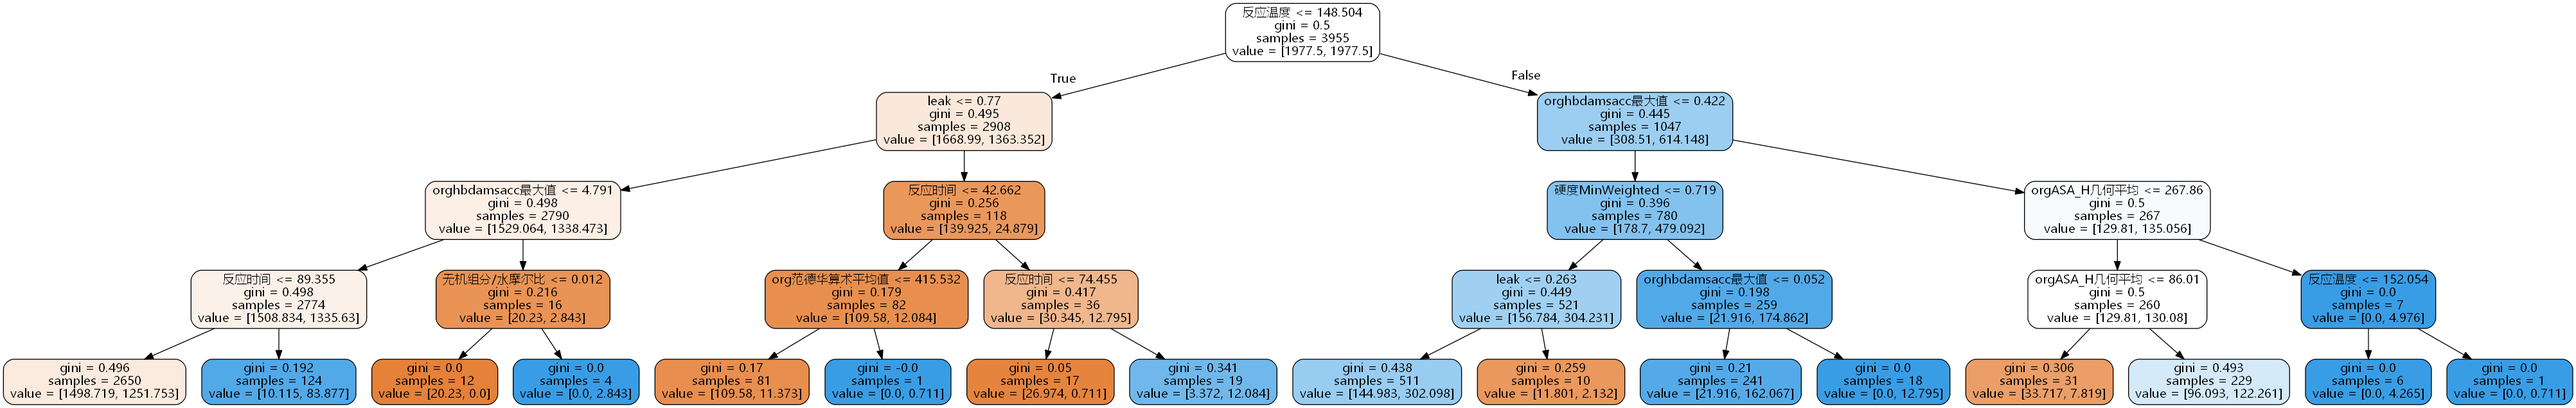
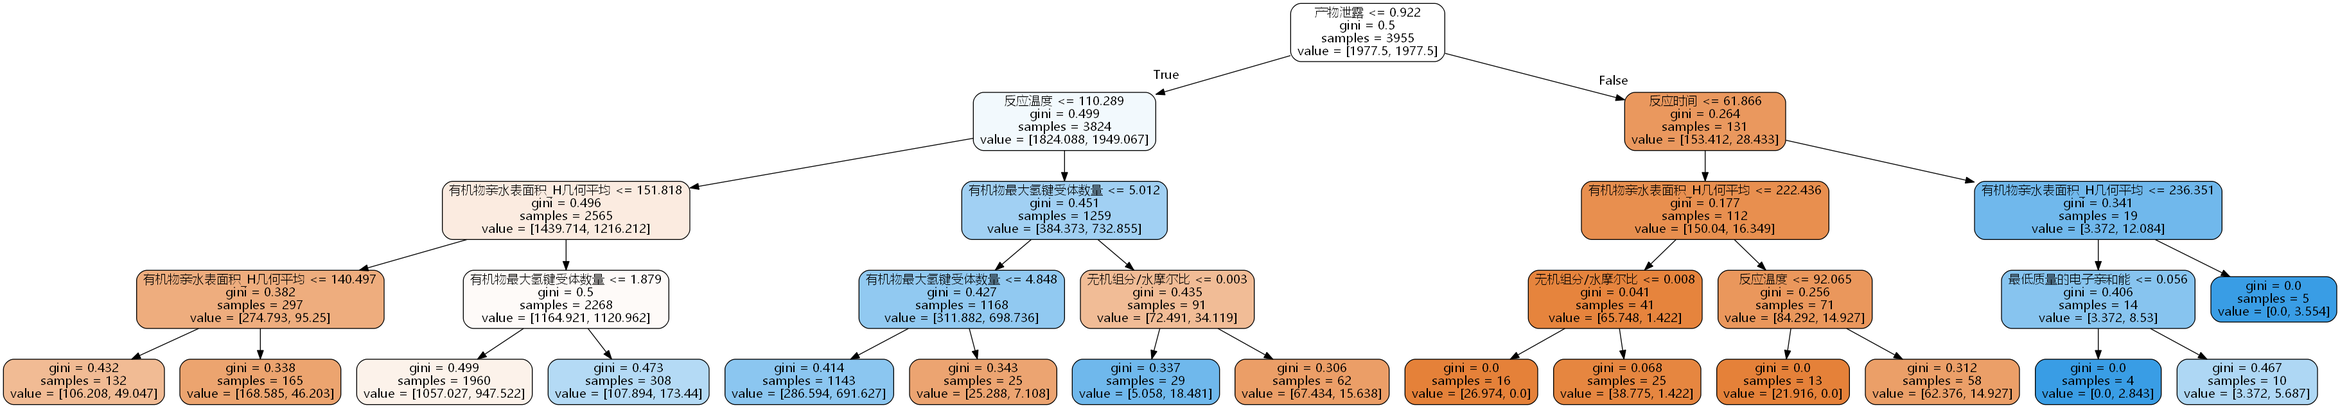
Updated codes

diff --git a/data_keys.py b/data_keys.py
@@ -1,4 +1,12 @@
 # Declaring features:
+"""
+Here are lists containing features for doing SVM and Decision tree algorithm,
+each one is a different iteration. The list contains two elements, the first
+of wich is the list containing feature_name in the csv file, while the second
+of which is the list of its corresponding translation in Chinese for reading
+enhancement. Examples are:
+key_1 = [[feature_names], [corresponding_translations]]
+"""
 test_key = [['time', 'slowCool', 'pH', 'leak', 'numberInorg', 'numberOrg',
             'numberOxlike', 'numberComponents', 'orgavgpolMax',
             'orgrefractivityMax', 'orgmaximalprojectionareaMax',
@@ -10,35 +18,35 @@ test_key = [['time', 'slowCool', 'pH', 'leak', 'numberInorg', 'numberOrg',
             'orghbdamsaccMax', 'orghbdamsdonMax', 'orgavgpolMin', 'orgrefractivityMin',
             'orgmaximalprojectionareaMin', 'orgmaximalprojectionradiusMin',
             'orgmaximalprojectionsizeMin', 'orgminimalprojectionareaMin'],
-            ['反应时间', '慢速冷却', 'pH', 'leak', '无机组分数', '有机组分数量',
-             'Oxlike数', '组分数', 'orgavgpolMax',
-            'orgrefractivityMax', 'orgmaximalprojectionareaMax',
+            ['反应时间', '慢速冷却', 'pH', '产物泄露', '无机组分数', '有机组分数量',
+             'Ox类似物数量', '组分数', '有机物平均分子极化率Max',
+            '有机物最大折射率', 'orgmaximalprojectionareaMax',
             'orgmaximalprojectionradiusMax', 'orgmaximalprojectionsizeMax',
             'orgminimalprojectionareaMax', 'orgminimalprojectionradiusMax',
-            'orgminimalprojectionsizeMax', 'orgavgpol_pHdependentMax',
-            'orgmolpolMax', 'orgvanderwaalsMax', 'orgASAMax', 'orgASA+Max',
-            'orgASA-Max', 'orgASA_HMax', 'orgASA_PMax', 'orgpolarsurfaceareaMax',
-            'orghbdamsaccMax', 'orghbdamsdonMax', 'orgavgpolMin', 'orgrefractivityMin',
+            'orgminimalprojectionsizeMax', '有机物平均分子极化率-pH依赖关系Max',
+            '有机物最大分子极性', '有机物最大范德华立体表面积', '有机分子最大亲水表面积', '有机物最大亲水表面积+',
+            '有机物最大亲水表面积', '有机物最大亲水表面积_H', '有机物最大亲水表面积_P', '有机物最大极性表面积',
+            '有机物最大氢键受体数量', '有机物最大氢键给体数', '有机物平均分子极化率Min', '有机物最小折射率',
             'orgmaximalprojectionareaMin', 'orgmaximalprojectionradiusMin',
             'orgmaximalprojectionsizeMin', 'orgminimalprojectionareaMin'
              ]
             ]
 feat_first = [['orgvanderwaalsMin', 'orgASA+Min', 'orghbdamsdonGeomAvg',
               'PaulingElectronegMean', 'hardnessMaxWeighted', 'AtomicRadiusMeanWeighted'],
-              ['orgMin', 'orgASA+Min', 'orghbdamsdonGeom平均值',
-               '平均Pauling电负性', '硬度MaxWeighted', '原子半径MeanWeighted']
+              ['orgMin', '有机物最小亲水表面积+', '有机物氢键给体几何平均值',
+               '平均Pauling电负性', '最大质量的硬度', '重均原子半径']
               ]
 
 feat_top6 = [['time', 'hardnessMinWeighted', 'orgASA_HGeomAvg', 'leak',
              'inorg-water-moleratio', 'orgvanderwaalsArithAvg'],
-             ['反应时间', '硬度MinWeighted', 'orgASA_H几何平均', 'leak',
-             '无机组分/水摩尔比', 'org范德华算术平均']
+             ['反应时间', '最低质量的硬度', '有机物亲水表面积_H几何平均', '产物泄露',
+             '无机组分/水摩尔比', '有机物范德华立体表面积算术平均']
              ]
 
 feat_top9 = [['time', 'hardnessMinWeighted', 'orgASA_HGeomAvg', 'leak',
              'inorg-water-moleratio', 'orgvanderwaalsArithAvg',
              'orghbdamsaccMax', 'temp', 'EAMinWeighted'],
-             ['反应时间', '硬度MinWeighted', 'orgASA_H几何平均', 'leak',
-             '无机组分/水摩尔比', 'org范德华算术平均值',
-             'orghbdamsacc最大值', '反应温度', 'EAMinWeighted']
+             ['反应时间', '最低质量的硬度', '有机物亲水表面积_H几何平均', '产物泄露',
+             '无机组分/水摩尔比', '有机物范德华立体表面积算术平均',
+             '有机物最大氢键受体数量', '反应温度', '最低质量的电子亲和能']
              ]
